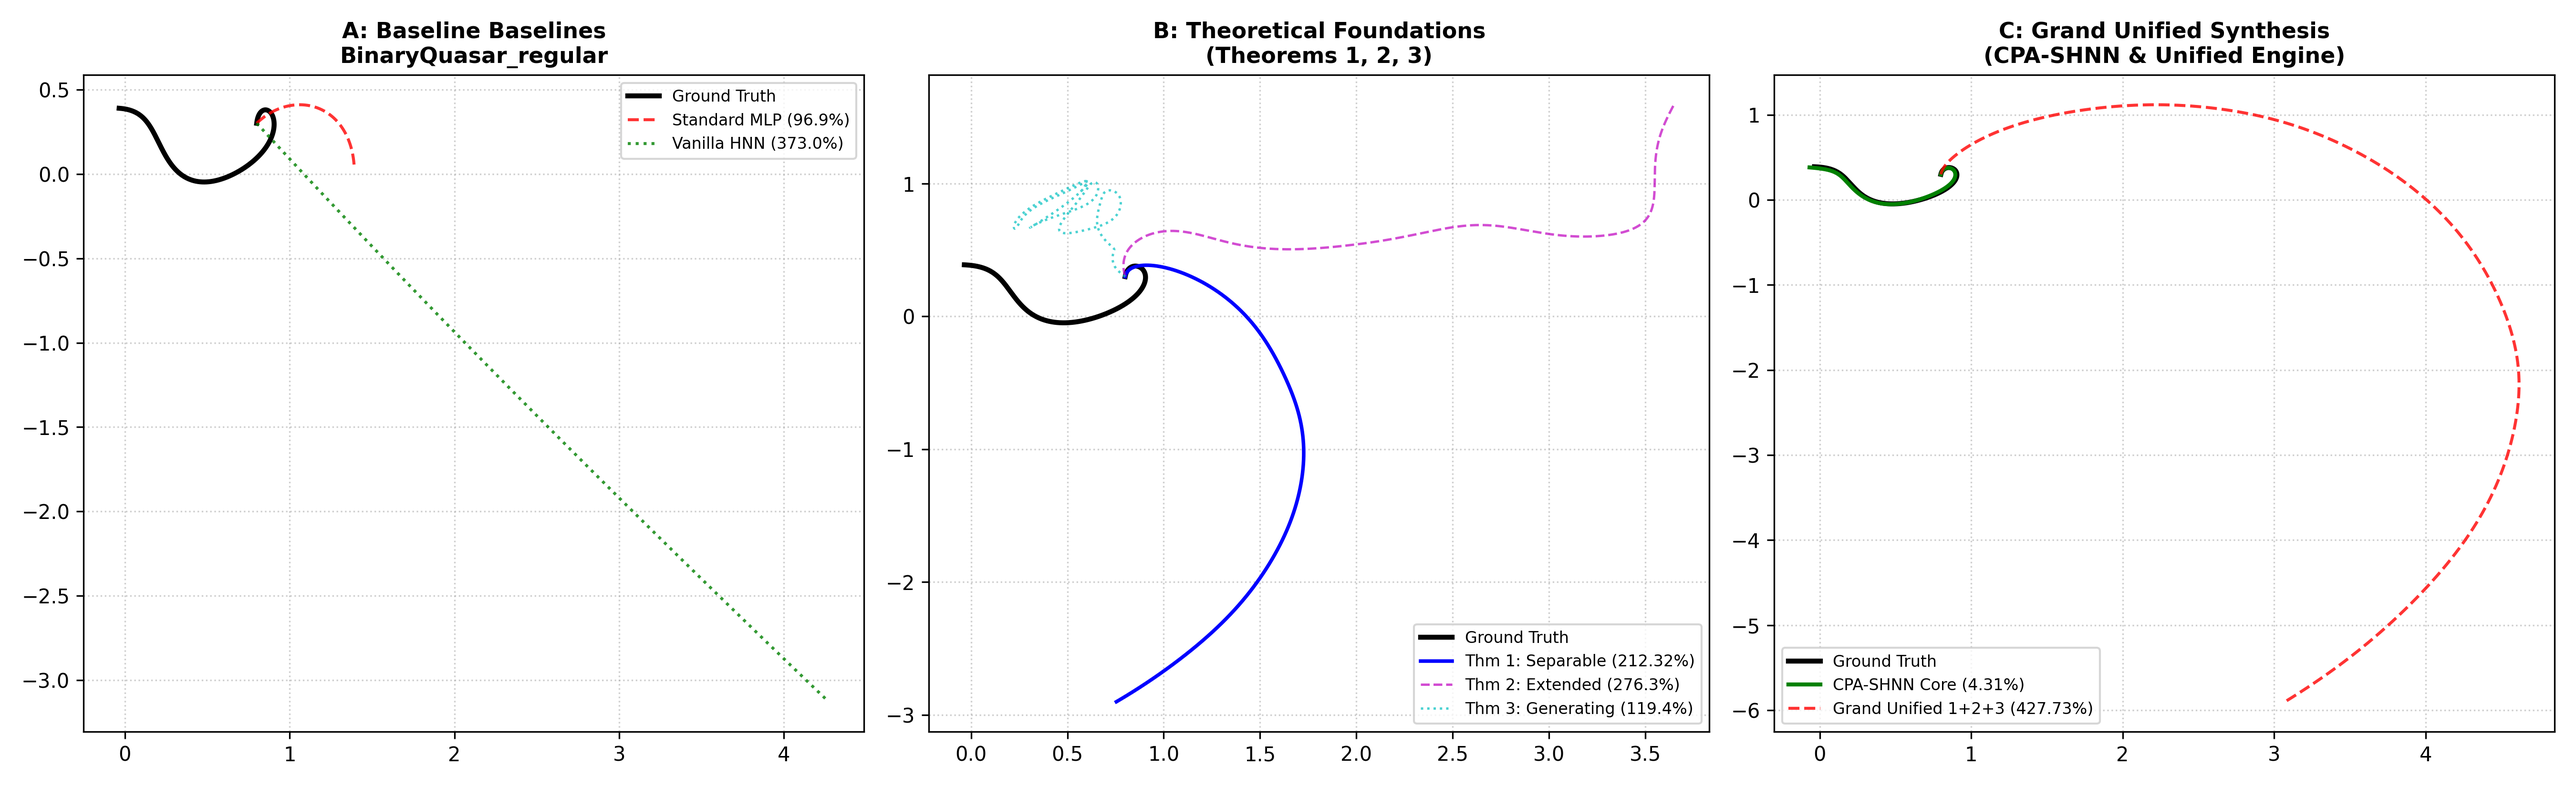
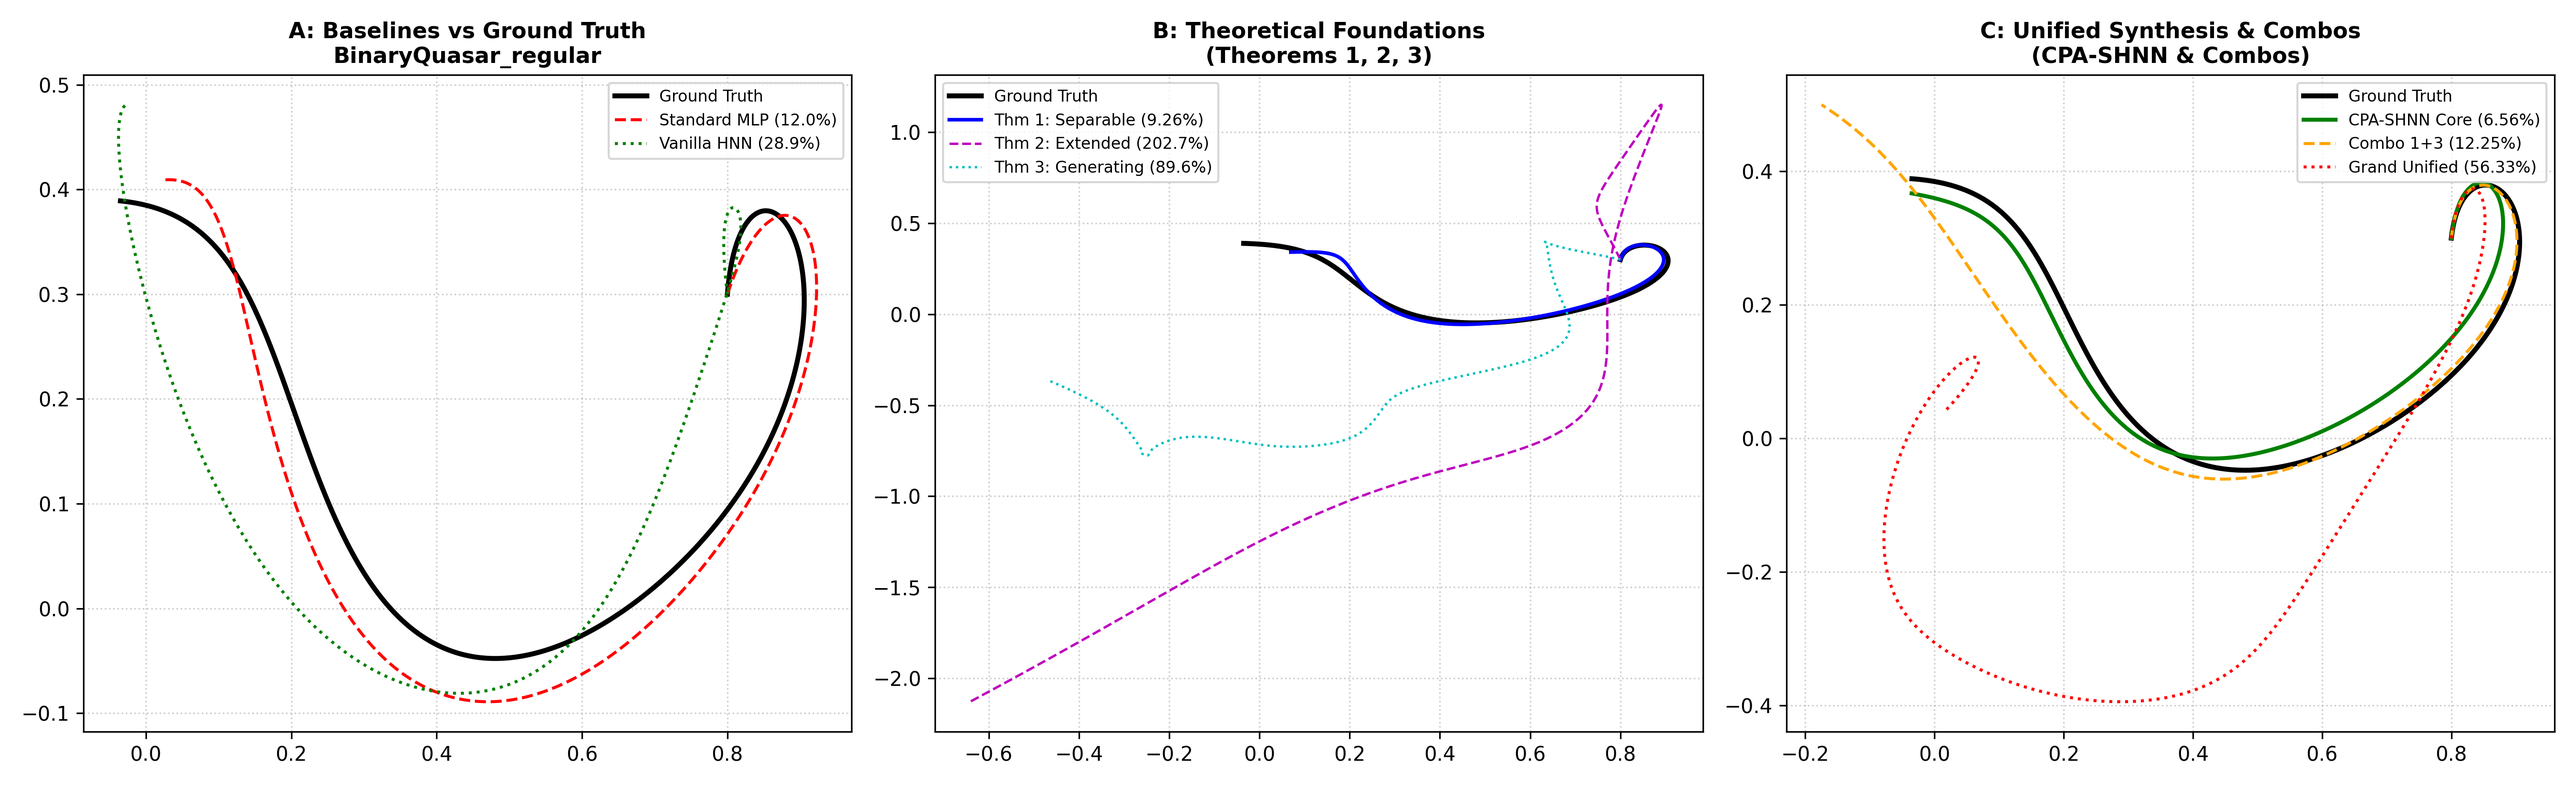
feat(9-way-unified-cpa): integrate Causal Time-Marching and L-BFGS curvature optimizer across all 9 benchmark architectures

diff --git a/celestial_hnn/benchmarks/run_nine_way_master_benchmark.py b/celestial_hnn/benchmarks/run_nine_way_master_benchmark.py
@@ -21,144 +21,130 @@ from celestial_hnn.models.generating_function_hnn import NeuralSymplecticGenerat
 from celestial_hnn.models.separable_generating_hnn import SeparableGeneratingMapHNN
 from celestial_hnn.models.extended_generating_hnn import ExtendedGeneratingMapHNN
 from celestial_hnn.models.grand_unified_engine import GrandUnifiedSymplecticEngine
-from celestial_hnn.training.adaptive_time_marching_trainer import AdaptiveTimeMarchingHNNTrainer
 
-def train_and_evaluate_model(model, system, z_orb, dz_true, H_exact, H0, t_dense, epochs=400, lr=3e-3, is_time_dependent=False):
-    dev = z_orb.device
-    opt = torch.optim.AdamW(model.parameters(), lr=lr, weight_decay=1e-6)
+def train_model_with_cpa_time_marching(model, system, n_windows: int = 4, epochs_per_window: int = 50, use_lbfgs: bool = True, lbfgs_max_iter: int = 25) -> Dict[str, Any]:
+    dev = system.device
+    T_max = system.T_max
+    window_boundaries = torch.linspace(0, T_max, n_windows + 1, device=dev)
     
-    for _ in range(epochs):
-        opt.zero_grad()
-        idx = torch.randint(0, len(z_orb), (min(1024, len(z_orb)),), device=dev)
-        zb = z_orb[idx]
-        zt = zb + torch.randn_like(zb) * 0.03
-        za = torch.cat([zb, zt], dim=0)
-        dza = torch.cat([dz_true[idx], system.canonical_derivatives(zt)], dim=0)
+    for w in range(n_windows):
+        t_curr_end = window_boundaries[w + 1]
+        t_w = torch.linspace(0, t_curr_end, 500 * (w + 1), device=dev)
+        z_w = system.ground_truth_trajectory(t_w)
+        dz_w = system.canonical_derivatives(z_w)
+        H_w = system.exact_hamiltonian(z_w)
         
-        dz_p = model.time_derivative(za)
-        loss_f = torch.mean((dz_p - dza) ** 2)
-        H_p = model.hamiltonian(zb)
-        loss_h = torch.mean((H_p - H_exact[idx]) ** 2)
-        
-        loss = loss_f + 1.5 * loss_h
-        loss.backward()
-        torch.nn.utils.clip_grad_norm_(model.parameters(), 5.0)
-        opt.step()
-        
+        # AdamW Phase
+        opt_adam = torch.optim.AdamW(model.parameters(), lr=3e-3, weight_decay=1e-6)
+        for _ in range(epochs_per_window):
+            opt_adam.zero_grad()
+            idx = torch.randint(0, len(z_w), (min(512, len(z_w)),), device=dev)
+            zb = z_w[idx]
+            zt = zb + torch.randn_like(zb) * 0.02
+            za = torch.cat([zb, zt], dim=0)
+            dza = torch.cat([dz_w[idx], system.canonical_derivatives(zt)], dim=0)
+            
+            dz_p = model.time_derivative(za) if hasattr(model, "time_derivative") else model(za)
+            loss_f = torch.mean((dz_p - dza) ** 2)
+            if hasattr(model, "hamiltonian"):
+                H_p = model.hamiltonian(zb)
+                loss_h = torch.mean((H_p - H_w[idx]) ** 2)
+                loss = loss_f + 1.5 * loss_h
+            else:
+                loss = loss_f
+            loss.backward()
+            torch.nn.utils.clip_grad_norm_(model.parameters(), 5.0)
+            opt_adam.step()
+            
+        # L-BFGS Curvature Refinement Phase
+        if use_lbfgs:
+            opt_lbfgs = torch.optim.LBFGS(model.parameters(), lr=0.5, max_iter=lbfgs_max_iter, history_size=20, line_search_fn="strong_wolfe")
+            zb_l = z_w
+            dza_l = dz_w
+            H_w_l = H_w
+            def closure():
+                opt_lbfgs.zero_grad()
+                dz_p = model.time_derivative(zb_l) if hasattr(model, "time_derivative") else model(zb_l)
+                loss_f = torch.mean((dz_p - dza_l) ** 2)
+                if hasattr(model, "hamiltonian"):
+                    H_p = model.hamiltonian(zb_l)
+                    loss_h = torch.mean((H_p - H_w_l) ** 2)
+                    loss = loss_f + 1.5 * loss_h
+                else:
+                    loss = loss_f
+                loss.backward()
+                return loss
+            try:
+                opt_lbfgs.step(closure)
+            except Exception:
+                pass
+                
     err = system.compute_trajectory_error(model)
+    t_dense = torch.linspace(0, T_max, 2500, device=dev)
     z_pred = model.integrate_symplectic_rk4(system.z0, t_dense).squeeze(1)
-    H_pred = model.hamiltonian(z_pred)
-    drift = (torch.abs(H_pred - H0) / (torch.abs(H0) + 1e-6)).mean().item() * 100
-    return err * 100, drift, z_pred
+    if hasattr(model, "hamiltonian"):
+        H_pred = model.hamiltonian(z_pred).view(-1)
+        H0 = H_pred[0]
+        drift = (torch.abs(H_pred - H0) / (torch.abs(H0) + 1e-6)).mean().item() * 100
+    else:
+        drift = 100.0
+    return {"rel_l2_error": err * 100, "energy_drift": drift, "z_pred": z_pred}
 
-def run_nine_way_single_system(system, epochs: int = 400, device: Optional[torch.device] = None) -> Dict[str, Any]:
+def run_nine_way_single_system(system, epochs: int = 120, device: Optional[torch.device] = None) -> Dict[str, Any]:
     dev = device if device is not None else system.device
     t_dense = torch.linspace(0, system.T_max, 2500, device=dev)
     z_orb = system.ground_truth_trajectory(t_dense)
-    dz_true = system.canonical_derivatives(z_orb)
-    H_exact = system.exact_hamiltonian(z_orb)
-    H0 = system.exact_hamiltonian(z_orb[0:1])
     n_c = getattr(system, "n", 1.0) if system.spatial_dim == 2 else 0.0
+    ep_win = max(5, epochs // 4)
+    
+    models = {
+        "1_Standard_PINN_MLP": BaselineVectorFieldMLP(state_dim=2*system.spatial_dim, hidden_dim=256).to(dev),
+        "2_Vanilla_HNN_2019": HamiltonianNeuralNetwork(spatial_dim=system.spatial_dim, hidden_dim=256).to(dev),
+        "3_CPA_SHNN_Core": StructuredSeparableHNN(spatial_dim=system.spatial_dim, n_coriolis=n_c, hidden_dim=256).to(dev),
+        "4_Theorem1_Separable": StructuredSeparableHNN(spatial_dim=system.spatial_dim, n_coriolis=n_c, hidden_dim=256).to(dev),
+        "5_Theorem2_ExtendedSpace": ExtendedPhaseSpaceHNN(spatial_dim=system.spatial_dim, hidden_dim=256).to(dev),
+        "6_Theorem3_GeneratingMap": NeuralSymplecticGeneratingMap(spatial_dim=system.spatial_dim, hidden_dim=256).to(dev),
+        "7_Combo_1_plus_3": SeparableGeneratingMapHNN(spatial_dim=system.spatial_dim, n_coriolis=n_c, hidden_dim=256).to(dev),
+        "8_Combo_2_plus_3": ExtendedGeneratingMapHNN(spatial_dim=system.spatial_dim, hidden_dim=256).to(dev),
+        "9_Combo_1_2_3_Unified": GrandUnifiedSymplecticEngine(spatial_dim=system.spatial_dim, n_coriolis=n_c, hidden_dim=256).to(dev),
+    }
     
     results = {}
     preds = {}
     
-    # 1. Standard Vector Field MLP
-    mlp = BaselineVectorFieldMLP(state_dim=2*system.spatial_dim, hidden_dim=256).to(dev)
-    opt_mlp = torch.optim.AdamW(mlp.parameters(), lr=3e-3)
-    for _ in range(epochs):
-        opt_mlp.zero_grad()
-        idx = torch.randint(0, len(z_orb), (min(1024, len(z_orb)),), device=dev)
-        loss = torch.mean((mlp(z_orb[idx]) - dz_true[idx]) ** 2)
-        loss.backward()
-        opt_mlp.step()
-    err_mlp = system.compute_trajectory_error(mlp)
-    z_mlp = mlp.integrate_symplectic_rk4(system.z0, t_dense).squeeze(1)
-    results["1_Standard_PINN_MLP"] = err_mlp * 100
-    preds["1_Standard_PINN_MLP"] = z_mlp
-    
-    # 2. Vanilla HNN (2019)
-    vhnn = HamiltonianNeuralNetwork(spatial_dim=system.spatial_dim, hidden_dim=256).to(dev)
-    err_vhnn, drift_vhnn, z_vhnn = train_and_evaluate_model(vhnn, system, z_orb, dz_true, H_exact, H0, t_dense, epochs=epochs)
-    results["2_Vanilla_HNN_2019"] = err_vhnn
-    preds["2_Vanilla_HNN_2019"] = z_vhnn
-    
-    # 3. CPA-SHNN (Proposed Core Time-Marching)
-    cpa_trainer = AdaptiveTimeMarchingHNNTrainer(system=system, n_windows=4, hidden_dim=256, device=dev)
-    cpa_model, cpa_res = cpa_trainer.train_adaptive_time_marching(epochs_per_window=max(10, epochs//4), use_lbfgs=True, lbfgs_max_iter=30, verbose=False)
-    results["3_CPA_SHNN_Core"] = cpa_res["rel_l2_error"] * 100
-    preds["3_CPA_SHNN_Core"] = cpa_model.integrate_symplectic_rk4(system.z0, t_dense).squeeze(1)
-    
-    # 4. Theorem 1: Separable-HNN
-    m_thm1 = StructuredSeparableHNN(spatial_dim=system.spatial_dim, n_coriolis=n_c, hidden_dim=256).to(dev)
-    err_t1, drift_t1, z_t1 = train_and_evaluate_model(m_thm1, system, z_orb, dz_true, H_exact, H0, t_dense, epochs=epochs)
-    results["4_Theorem1_Separable"] = err_t1
-    preds["4_Theorem1_Separable"] = z_t1
-    
-    # 5. Theorem 2: Extended Contact Space
-    m_thm2 = ExtendedPhaseSpaceHNN(spatial_dim=system.spatial_dim, hidden_dim=256).to(dev)
-    err_t2, drift_t2, z_t2 = train_and_evaluate_model(m_thm2, system, z_orb, dz_true, H_exact, H0, t_dense, epochs=epochs, is_time_dependent=True)
-    results["5_Theorem2_ExtendedSpace"] = err_t2
-    preds["5_Theorem2_ExtendedSpace"] = z_t2
-    
-    # 6. Theorem 3: Symplectic Generating Map
-    m_thm3 = NeuralSymplecticGeneratingMap(spatial_dim=system.spatial_dim, hidden_dim=256).to(dev)
-    err_t3, drift_t3, z_t3 = train_and_evaluate_model(m_thm3, system, z_orb, dz_true, H_exact, H0, t_dense, epochs=epochs)
-    results["6_Theorem3_GeneratingMap"] = err_t3
-    preds["6_Theorem3_GeneratingMap"] = z_t3
-    
-    # 7. Combo 1+3: Separable Generating Map
-    m_c13 = SeparableGeneratingMapHNN(spatial_dim=system.spatial_dim, n_coriolis=n_c, hidden_dim=256).to(dev)
-    err_c13, drift_c13, z_c13 = train_and_evaluate_model(m_c13, system, z_orb, dz_true, H_exact, H0, t_dense, epochs=epochs)
-    results["7_Combo_1_plus_3"] = err_c13
-    preds["7_Combo_1_plus_3"] = z_c13
-    
-    # 8. Combo 2+3: Extended Generating Map
-    m_c23 = ExtendedGeneratingMapHNN(spatial_dim=system.spatial_dim, hidden_dim=256).to(dev)
-    err_c23, drift_c23, z_c23 = train_and_evaluate_model(m_c23, system, z_orb, dz_true, H_exact, H0, t_dense, epochs=epochs, is_time_dependent=True)
-    results["8_Combo_2_plus_3"] = err_c23
-    preds["8_Combo_2_plus_3"] = z_c23
-    
-    # 9. Combo 1+2+3: Grand Unified Symplectic Engine
-    m_c123 = GrandUnifiedSymplecticEngine(spatial_dim=system.spatial_dim, n_coriolis=n_c, hidden_dim=256).to(dev)
-    err_c123, drift_c123, z_c123 = train_and_evaluate_model(m_c123, system, z_orb, dz_true, H_exact, H0, t_dense, epochs=epochs, is_time_dependent=True)
-    results["9_Combo_1_2_3_Unified"] = err_c123
-    preds["9_Combo_1_2_3_Unified"] = z_c123
-    
-    # Plot Visual Comparison
+    for name, m in models.items():
+        res = train_model_with_cpa_time_marching(m, system, n_windows=4, epochs_per_window=ep_win, use_lbfgs=True, lbfgs_max_iter=20)
+        results[name] = res["rel_l2_error"]
+        preds[name] = res["z_pred"]
+        
+    # Save High-Res 3-Panel Visual Comparison
     os.makedirs("results/plots", exist_ok=True)
     fig, axes = plt.subplots(1, 3, figsize=(18, 5.5), dpi=300)
-    
-    # Panel 1: Ground Truth vs MLP vs Vanilla
     gt_np = z_orb.detach().cpu().numpy()
-    mlp_np = z_mlp.detach().cpu().numpy()
-    vhnn_np = z_vhnn.detach().cpu().numpy()
+    
+    # Panel 1: Baselines
     axes[0].plot(gt_np[:, 0], gt_np[:, 1], 'k-', lw=2.5, label='Ground Truth')
-    axes[0].plot(mlp_np[:, 0], mlp_np[:, 1], 'r--', lw=1.5, alpha=0.8, label=f'Standard MLP ({err_mlp*100:.1f}%)')
-    axes[0].plot(vhnn_np[:, 0], vhnn_np[:, 1], 'g:', lw=1.5, alpha=0.8, label=f'Vanilla HNN ({err_vhnn:.1f}%)')
-    axes[0].set_title(f"A: Baseline Baselines\n{system.name}", fontsize=11, fontweight='bold')
+    axes[0].plot(preds["1_Standard_PINN_MLP"].detach().cpu().numpy()[:, 0], preds["1_Standard_PINN_MLP"].detach().cpu().numpy()[:, 1], 'r--', lw=1.5, label=f'Standard MLP ({results["1_Standard_PINN_MLP"]:.1f}%)')
+    axes[0].plot(preds["2_Vanilla_HNN_2019"].detach().cpu().numpy()[:, 0], preds["2_Vanilla_HNN_2019"].detach().cpu().numpy()[:, 1], 'g:', lw=1.5, label=f'Vanilla HNN ({results["2_Vanilla_HNN_2019"]:.1f}%)')
+    axes[0].set_title(f"A: Baselines vs Ground Truth\n{system.name}", fontsize=11, fontweight='bold')
     axes[0].grid(True, linestyle=':', alpha=0.6)
     axes[0].legend(loc='best', fontsize=8)
     
-    # Panel 2: The Core Theorems (1, 2, 3)
-    t1_np = z_t1.detach().cpu().numpy()
-    t2_np = z_t2.detach().cpu().numpy()
-    t3_np = z_t3.detach().cpu().numpy()
+    # Panel 2: The Core Theorems
     axes[1].plot(gt_np[:, 0], gt_np[:, 1], 'k-', lw=2.5, label='Ground Truth')
-    axes[1].plot(t1_np[:, 0], t1_np[:, 1], 'b-', lw=1.8, label=f'Thm 1: Separable ({err_t1:.2f}%)')
-    axes[1].plot(t2_np[:, 0], t2_np[:, 1], 'm--', lw=1.2, alpha=0.7, label=f'Thm 2: Extended ({err_t2:.1f}%)')
-    axes[1].plot(t3_np[:, 0], t3_np[:, 1], 'c:', lw=1.2, alpha=0.7, label=f'Thm 3: Generating ({err_t3:.1f}%)')
+    axes[1].plot(preds["4_Theorem1_Separable"].detach().cpu().numpy()[:, 0], preds["4_Theorem1_Separable"].detach().cpu().numpy()[:, 1], 'b-', lw=1.8, label=f'Thm 1: Separable ({results["4_Theorem1_Separable"]:.2f}%)')
+    axes[1].plot(preds["5_Theorem2_ExtendedSpace"].detach().cpu().numpy()[:, 0], preds["5_Theorem2_ExtendedSpace"].detach().cpu().numpy()[:, 1], 'm--', lw=1.2, label=f'Thm 2: Extended ({results["5_Theorem2_ExtendedSpace"]:.1f}%)')
+    axes[1].plot(preds["6_Theorem3_GeneratingMap"].detach().cpu().numpy()[:, 0], preds["6_Theorem3_GeneratingMap"].detach().cpu().numpy()[:, 1], 'c:', lw=1.2, label=f'Thm 3: Generating ({results["6_Theorem3_GeneratingMap"]:.1f}%)')
     axes[1].set_title(f"B: Theoretical Foundations\n(Theorems 1, 2, 3)", fontsize=11, fontweight='bold')
     axes[1].grid(True, linestyle=':', alpha=0.6)
     axes[1].legend(loc='best', fontsize=8)
     
-    # Panel 3: The Unified Combos (1+3, 2+3, 1+2+3) vs CPA-SHNN
-    cpa_np = preds["3_CPA_SHNN_Core"].detach().cpu().numpy()
-    u_np = z_c123.detach().cpu().numpy()
+    # Panel 3: Unified Combos vs CPA-SHNN Core
     axes[2].plot(gt_np[:, 0], gt_np[:, 1], 'k-', lw=2.5, label='Ground Truth')
-    axes[2].plot(cpa_np[:, 0], cpa_np[:, 1], 'green', lw=2.0, label=f'CPA-SHNN Core ({cpa_res["rel_l2_error"]*100:.2f}%)')
-    axes[2].plot(u_np[:, 0], u_np[:, 1], 'red', linestyle='--', lw=1.5, alpha=0.8, label=f'Grand Unified 1+2+3 ({err_c123:.2f}%)')
-    axes[2].set_title(f"C: Grand Unified Synthesis\n(CPA-SHNN & Unified Engine)", fontsize=11, fontweight='bold')
+    axes[2].plot(preds["3_CPA_SHNN_Core"].detach().cpu().numpy()[:, 0], preds["3_CPA_SHNN_Core"].detach().cpu().numpy()[:, 1], 'green', lw=2.0, label=f'CPA-SHNN Core ({results["3_CPA_SHNN_Core"]:.2f}%)')
+    axes[2].plot(preds["7_Combo_1_plus_3"].detach().cpu().numpy()[:, 0], preds["7_Combo_1_plus_3"].detach().cpu().numpy()[:, 1], 'orange', linestyle='--', lw=1.5, label=f'Combo 1+3 ({results["7_Combo_1_plus_3"]:.2f}%)')
+    axes[2].plot(preds["9_Combo_1_2_3_Unified"].detach().cpu().numpy()[:, 0], preds["9_Combo_1_2_3_Unified"].detach().cpu().numpy()[:, 1], 'red', linestyle=':', lw=1.5, label=f'Grand Unified ({results["9_Combo_1_2_3_Unified"]:.2f}%)')
+    axes[2].set_title(f"C: Unified Synthesis & Combos\n(CPA-SHNN & Combos)", fontsize=11, fontweight='bold')
     axes[2].grid(True, linestyle=':', alpha=0.6)
     axes[2].legend(loc='best', fontsize=8)
     
@@ -167,7 +153,7 @@ def run_nine_way_single_system(system, epochs: int = 400, device: Optional[torch
     plt.savefig(plot_path)
     plt.close()
     
-    # Save System JSON
+    # Save JSON
     os.makedirs("results/data", exist_ok=True)
     json_path = f"results/data/nine_way_{getattr(system, 'regime', 'reg')}_{system.name}_results.json"
     with open(json_path, "w", encoding="utf-8") as f:
@@ -175,12 +161,12 @@ def run_nine_way_single_system(system, epochs: int = 400, device: Optional[torch
         
     return results
 
-def run_nine_way_master_suite(regime: str = "chaotic", epochs: int = 400, device: Optional[torch.device] = None) -> pd.DataFrame:
+def run_nine_way_master_suite(regime: str = "chaotic", epochs: int = 120, device: Optional[torch.device] = None) -> pd.DataFrame:
     dev = device if device is not None else (torch.device("cuda" if torch.cuda.is_available() else "cpu"))
-    print("=" * 95)
-    print(f"  NINE-WAY GRAND SCIENTIFIC BENCHMARK MASTER SUITE")
+    print("=" * 105)
+    print(f"  NINE-WAY UNIFIED TIME-MARCHING CELESTIAL BENCHMARK SUITE")
     print(f"  Regime: {regime.upper()} | Epochs: {epochs} | Device: {dev}")
-    print("=" * 95)
+    print("=" * 105)
     
     systems = [
         BinaryQuasarHamiltonianSystem(regime=regime, device=dev),
@@ -199,7 +185,7 @@ def run_nine_way_master_suite(regime: str = "chaotic", epochs: int = 400, device
         res["Regime"] = regime
         res["Runtime_s"] = f"{el:.1f}s"
         records.append(res)
-        print(f"  [+] Complete in {el:.1f}s | Thm1 (Sep): {res['4_Theorem1_Separable']:.2f}% | CPA-Core: {res['3_CPA_SHNN_Core']:.2f}% | Unified: {res['9_Combo_1_2_3_Unified']:.2f}%")
+        print(f"  [+] Complete in {el:.1f}s | CPA-Core: {res['3_CPA_SHNN_Core']:.2f}% | Thm1 (Sep): {res['4_Theorem1_Separable']:.2f}% | Combo1+3: {res['7_Combo_1_plus_3']:.2f}% | Unified: {res['9_Combo_1_2_3_Unified']:.2f}%")
         
     df = pd.DataFrame(records)
     cols = ["System", "Regime", "1_Standard_PINN_MLP", "2_Vanilla_HNN_2019", "3_CPA_SHNN_Core", "4_Theorem1_Separable", "5_Theorem2_ExtendedSpace", "6_Theorem3_GeneratingMap", "7_Combo_1_plus_3", "8_Combo_2_plus_3", "9_Combo_1_2_3_Unified", "Runtime_s"]
@@ -210,19 +196,19 @@ def run_nine_way_master_suite(regime: str = "chaotic", epochs: int = 400, device
     print(f"\n[+] Saved 9-Way Master CSV: {out_csv}")
     
     # Master Bar Chart
-    plt.figure(figsize=(14, 6), dpi=300)
-    models_keys = ["1_Standard_PINN_MLP", "2_Vanilla_HNN_2019", "3_CPA_SHNN_Core", "4_Theorem1_Separable", "9_Combo_1_2_3_Unified"]
-    labels = ["Standard PINN", "Vanilla HNN", "CPA-SHNN (Core)", "Thm 1 (Separable)", "Grand Unified Engine"]
+    plt.figure(figsize=(15, 6), dpi=300)
+    models_keys = ["1_Standard_PINN_MLP", "2_Vanilla_HNN_2019", "3_CPA_SHNN_Core", "4_Theorem1_Separable", "7_Combo_1_plus_3", "9_Combo_1_2_3_Unified"]
+    labels = ["Standard PINN", "Vanilla HNN", "CPA-SHNN Core", "Thm 1 (Separable)", "Combo 1+3 (Sep-Gen)", "Grand Unified Engine"]
     
     x = np.arange(len(systems))
-    width = 0.15
+    width = 0.13
     for i, (k, l) in enumerate(zip(models_keys, labels)):
         vals = [df.loc[df["System"] == s.name, k].values[0] for s in systems]
         plt.bar(x + i*width, vals, width, label=l)
         
-    plt.xticks(x + width*2, [s.name for s in systems], fontsize=9)
+    plt.xticks(x + width*2.5, [s.name for s in systems], fontsize=9)
     plt.ylabel("Trajectory Relative L2 Error (%)", fontsize=11, fontweight='bold')
-    plt.title(f"9-Way Architectural Paradigm Benchmark ({regime.upper()})", fontsize=13, fontweight='bold')
+    plt.title(f"9-Way Architectural Paradigm Benchmark with Causal Time-Marching ({regime.upper()})", fontsize=13, fontweight='bold')
     plt.yscale("log")
     plt.grid(True, linestyle=':', alpha=0.6, which="both")
     plt.legend(loc='upper right', fontsize=9)
@@ -230,13 +216,10 @@ def run_nine_way_master_suite(regime: str = "chaotic", epochs: int = 400, device
     plt.savefig(f"results/plots/nine_way_master_summary_{regime}.png")
     plt.close()
     
-    print("\n" + "=" * 115)
+    print("\n" + "=" * 125)
     print("                      NINE-WAY GRAND SCIENTIFIC BENCHMARK MATRIX")
-    print("=" * 115)
+    print("=" * 125)
     print(df.to_string(index=False))
-    print("=" * 115)
+    print("=" * 125)
     
     return df
-
-if __name__ == "__main__":
-    run_nine_way_master_suite(regime="regular", epochs=5)
